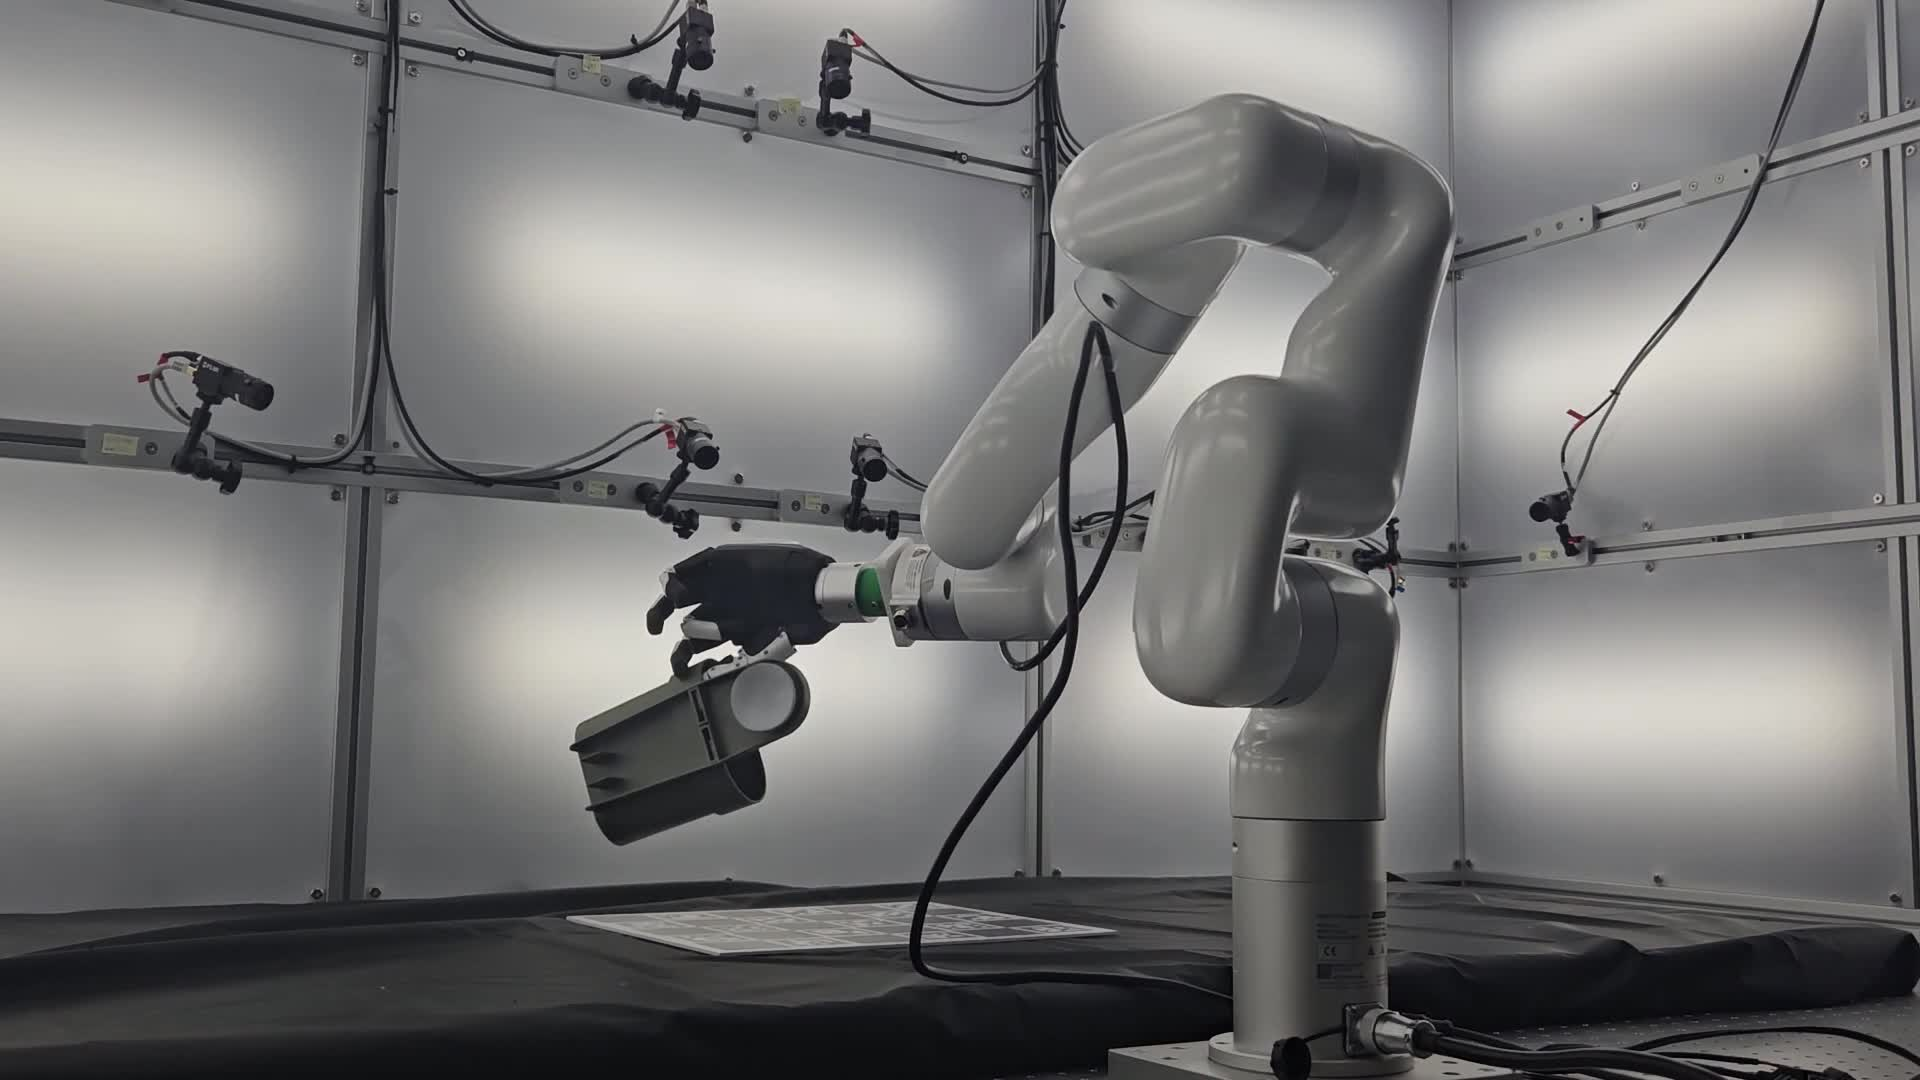
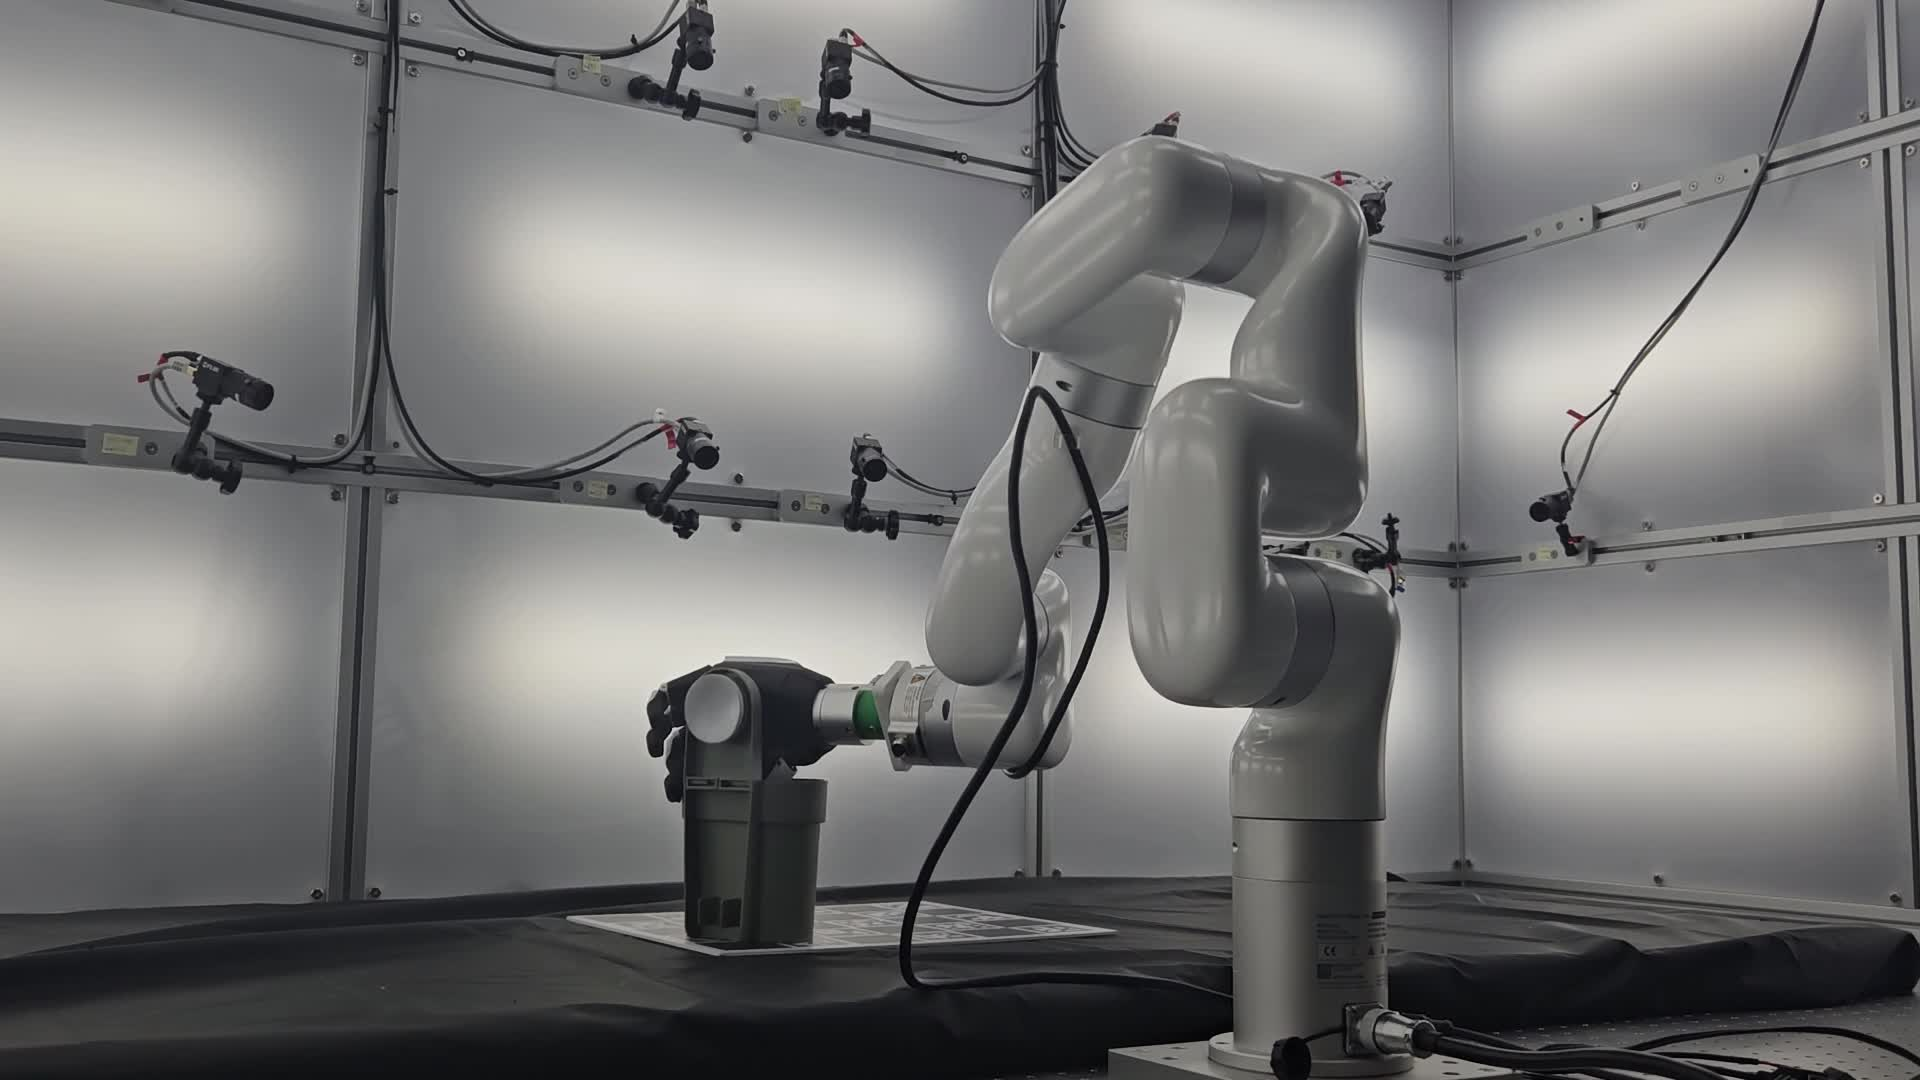
Sharper hero from 17Mbps master (crf16); balance loop step panel (1fr 1fr); widen tagline

Changed region(s): [[0.2812, 0.0611, 0.7812, 0.9472]]

diff --git a/static/css/index.css b/static/css/index.css
@@ -19,7 +19,7 @@ body {
   background: var(--bg);
   -webkit-font-smoothing: antialiased;
   line-height: 1.65;
-  font-size: 18px;
+  font-size: 19px;
   overflow-x: hidden;
 }
 a { color: var(--accent); text-decoration: none; }
@@ -61,7 +61,7 @@ a:hover { text-decoration: underline; }
   font-size: clamp(1.1rem, 2.2vw, 1.42rem); font-weight: 600; color: var(--ink);
   margin: .9rem auto 0; max-width: 48rem; line-height: 1.3; text-wrap: balance;
 }
-.tagline { color: var(--muted); font-size: 1.08rem; margin: 1.2rem auto 0; max-width: 62ch; line-height: 1.65; }
+.tagline { color: var(--muted); font-size: 1.14rem; margin: 1.2rem auto 0; max-width: 54rem; line-height: 1.65; }
 
 .authors { margin-top: 1.7rem; font-size: 1.05rem; line-height: 1.85; color: var(--ink); }
 .authors .a { white-space: nowrap; }
@@ -163,7 +163,7 @@ section { padding: 3.5rem 0; }
 .step-tab.active { color: var(--ink); border-bottom-color: var(--accent); }
 .step-tab.active .n { color: var(--accent); }
 .step-panel { display:none; }
-.step-panel.active { display:grid; grid-template-columns: 1.4fr 1fr; gap:2rem; align-items:center; }
+.step-panel.active { display:grid; grid-template-columns: 1fr 1fr; gap:2rem; align-items:center; }
 .step-panel h3 { font-size:1.3rem; font-weight:700; color:var(--ink); margin:0 0 .7rem; letter-spacing:-.2px; }
 .step-panel p { color:var(--body); font-size:1.05rem; line-height:1.7; }
 @media (max-width:780px){ .step-panel.active{ grid-template-columns:1fr; } }